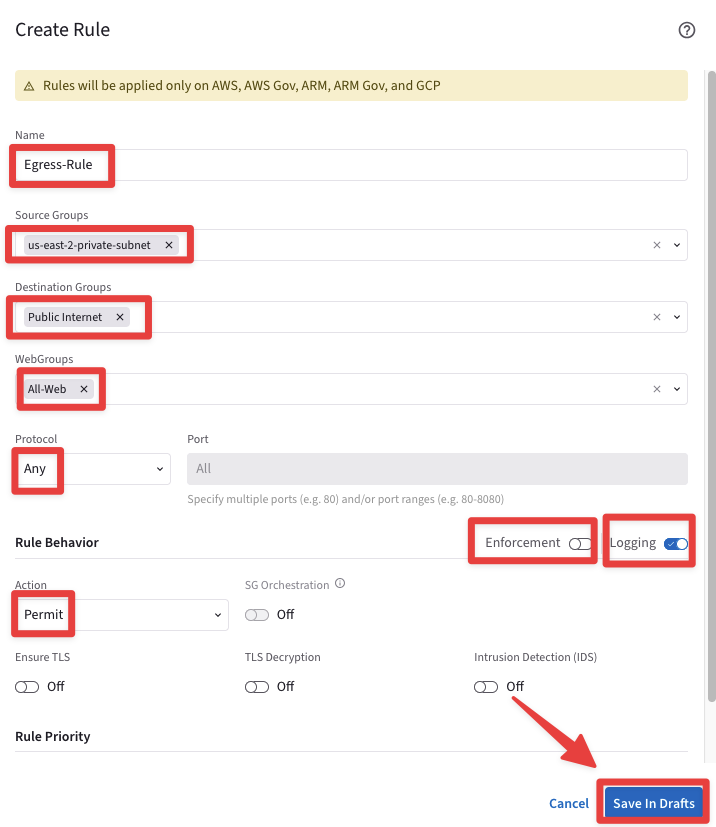
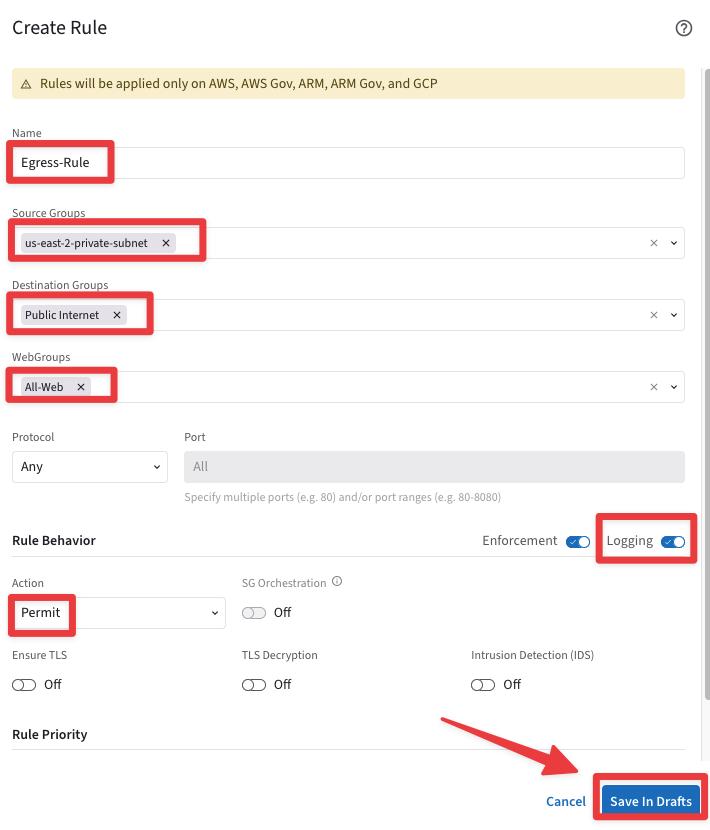
update for pro

diff --git a/ace_pro/docs/lab5.md b/ace_pro/docs/lab5.md
@@ -337,7 +337,6 @@ Insert the following parameters
 - **Destination Smartgroups**: <span style='color:#479608'>Public Internet</span>
 - **WebGroups**: <span style='color:#479608'>**All-Web**</span>
 - **Protocol**: <span style='color:#479608'>Any</span>
-- **Enforcement**: <span style='color:#479608'>**Off**</span>
 - **Logging**: <span style='color:#479608'>On</span>
 - **Action**: <span style='color:#479608'>**Permit**</span>
 
@@ -356,11 +355,7 @@ Saving the new Rule
 Ultimately , this Webgroup will limit Internet traffic solely for **HTTP** and **HTTPS** protocols.
 ```
 
-Click on the **Commit** button, and the rule previously created will work in **_watch/test_** mode because `enforcement` was turn off.
-
-```{important}
-If the **Enforcement** slider is **On** (the default), the rule is enforced in the data plane. If the Enforcement slider is **Off**, the packets are only watched. This allows you to observe if the traffic impacted by this rule causes any inadvertent issues (such as traffic being dropped).
-```
+Click on the **Commit** button, and the rule previously created will be enfored in to the `Data Path`..
 
 ```{figure} images/lab6-newrule11.png
 ---
@@ -370,39 +365,58 @@ align: center
 Egress-Rule
 ```
 
-Now delete the **Greenfield-Rule**: 
+```{important}
+The `DefaultDenyAll` rule injected by the Aviatrix Controller is y default not editable
+```
 
-- click on the **three dots** icon on the right-hand side of the Greenfield-Rule entry and then choose the `"Delete Rule"` option.
+```{figure} images/lab6-new010.png
+---
+align: center
+---
+Not Editable
+```
+
+Now Create an Explicit Deny rule that is **editable**:
+
+Click on the `"+ Rule"` button.
+
+```{figure} images/lab6-newrule100.png
+---
+align: center
+---
+New Rule
+```
+
+Insert the following parameters
+
+- **Name**: <span style='color:#479608'>ExplicitDenyAll</span>
+- **Source Smartgroups**: <span style='color:#479608'>Anywhere(0.0.0.0/0)</span>
+- **Destination Smartgroups**: <span style='color:#479608'>Anywhere(0.0.0.0/0)</span>
+- **Protocol**: <span style='color:#479608'>Any</span>
+- **Logging**: <span style='color:#479608'>On</span>
+- **Action**: <span style='color:#479608'>**Deny**</span>
+- **Place Rule**: <span style='color:#479608'>Below</span>
+  - **Existing Rule**: <span style='color:#479608'>Egress-Rule</span>
+
+Do not forget to click on **Save In Drafts**.
+
+```{figure} images/lab6-newrule1001.png
+---
+align: center
+---
+ExplicitDenyAll
+```
 
 Do not forget to click on **Commit**.
 
-```{caution}
-The deletion of the Greenfield-Rule will also cause the deletion of the DefaultDenyAll, because the Egress-Rule was not enforced on the data path, which in turn means that there will be an `Invisible Deny Rule` installed on the bottom.
-```
-
-```{figure} images/lab6-newruledelete.png
+```{figure} images/lab6-newrule10011.png
 ---
-height: 250px
 align: center
 ---
-Commit your change
+ExplicitDenyAll
 ```
 
-```{figure} images/lab6-newruledelete101.png
----
-height: 250px
-align: center
----
-Deletion of the Greenfield-Rule
-```
 
-```{figure} images/lab6-newruledeleted.png
----
-height: 150px
-align: center
----
-Egress-Rule solely
-```
 
 ## 7. Connectivity Testing after enabling ther Aviatrix Cloud Firewall
 
@@ -420,7 +434,7 @@ align: center
 aws-us-east-2-spoke1-test2
 ```
 
-The private workload is still generating traffic to those four domains; however, you will gradually notice that each TCP connection will start to fail.
+The private workload is still generating traffic to those four domains.
 
 ```{tip}
 If you want to expedite the results on the Gatus dashboard, feel free to adjust the timeout to **10 seconds** in the bottom left-hand corner.
@@ -431,7 +445,7 @@ If you want to expedite the results on the Gatus dashboard, feel free to adjust 
 height: 400px
 align: center
 ---
-Egress traffic is now going through the Aviatrix Cloud Firewall embedded the Spoke GW
+Egress traffic is now going through the Aviatrix Cloud Firewall embedded on the Spoke GW
 ```
 
 ### 7.2 Connectivity Testing Using the SSH Client <span style='color:#33ECFF'>(BONUS)</span></summary>
@@ -451,19 +465,15 @@ curl www.espn.com
 curl www.football.com
 ```
 
-```{figure} images/lab6-monitorpermit22.png
+```{figure} images/lab6-curl.png
 ---
-height: 200px
+height: 400px
 align: center
 ---
-SSH client outputs
+curl commands
 ```
 
-```{important}
-However, on the SSH client, you will **NOT** see any outputs, this is because the Rule <ins>was not enforced in the Data Path</ins>, therefore the traffic is simply dropped.
-```
-
-Go to **CoPilot > Security > Distributed Cloud Firewall > Monitor** and you will see the corresponding **logs**.
+Go to **CoPilot > Security > Egress > Overview**, and you will see the visibility of the domain hits.
 
 ```{figure} images/lab6-monitorpermit.png
 ---
